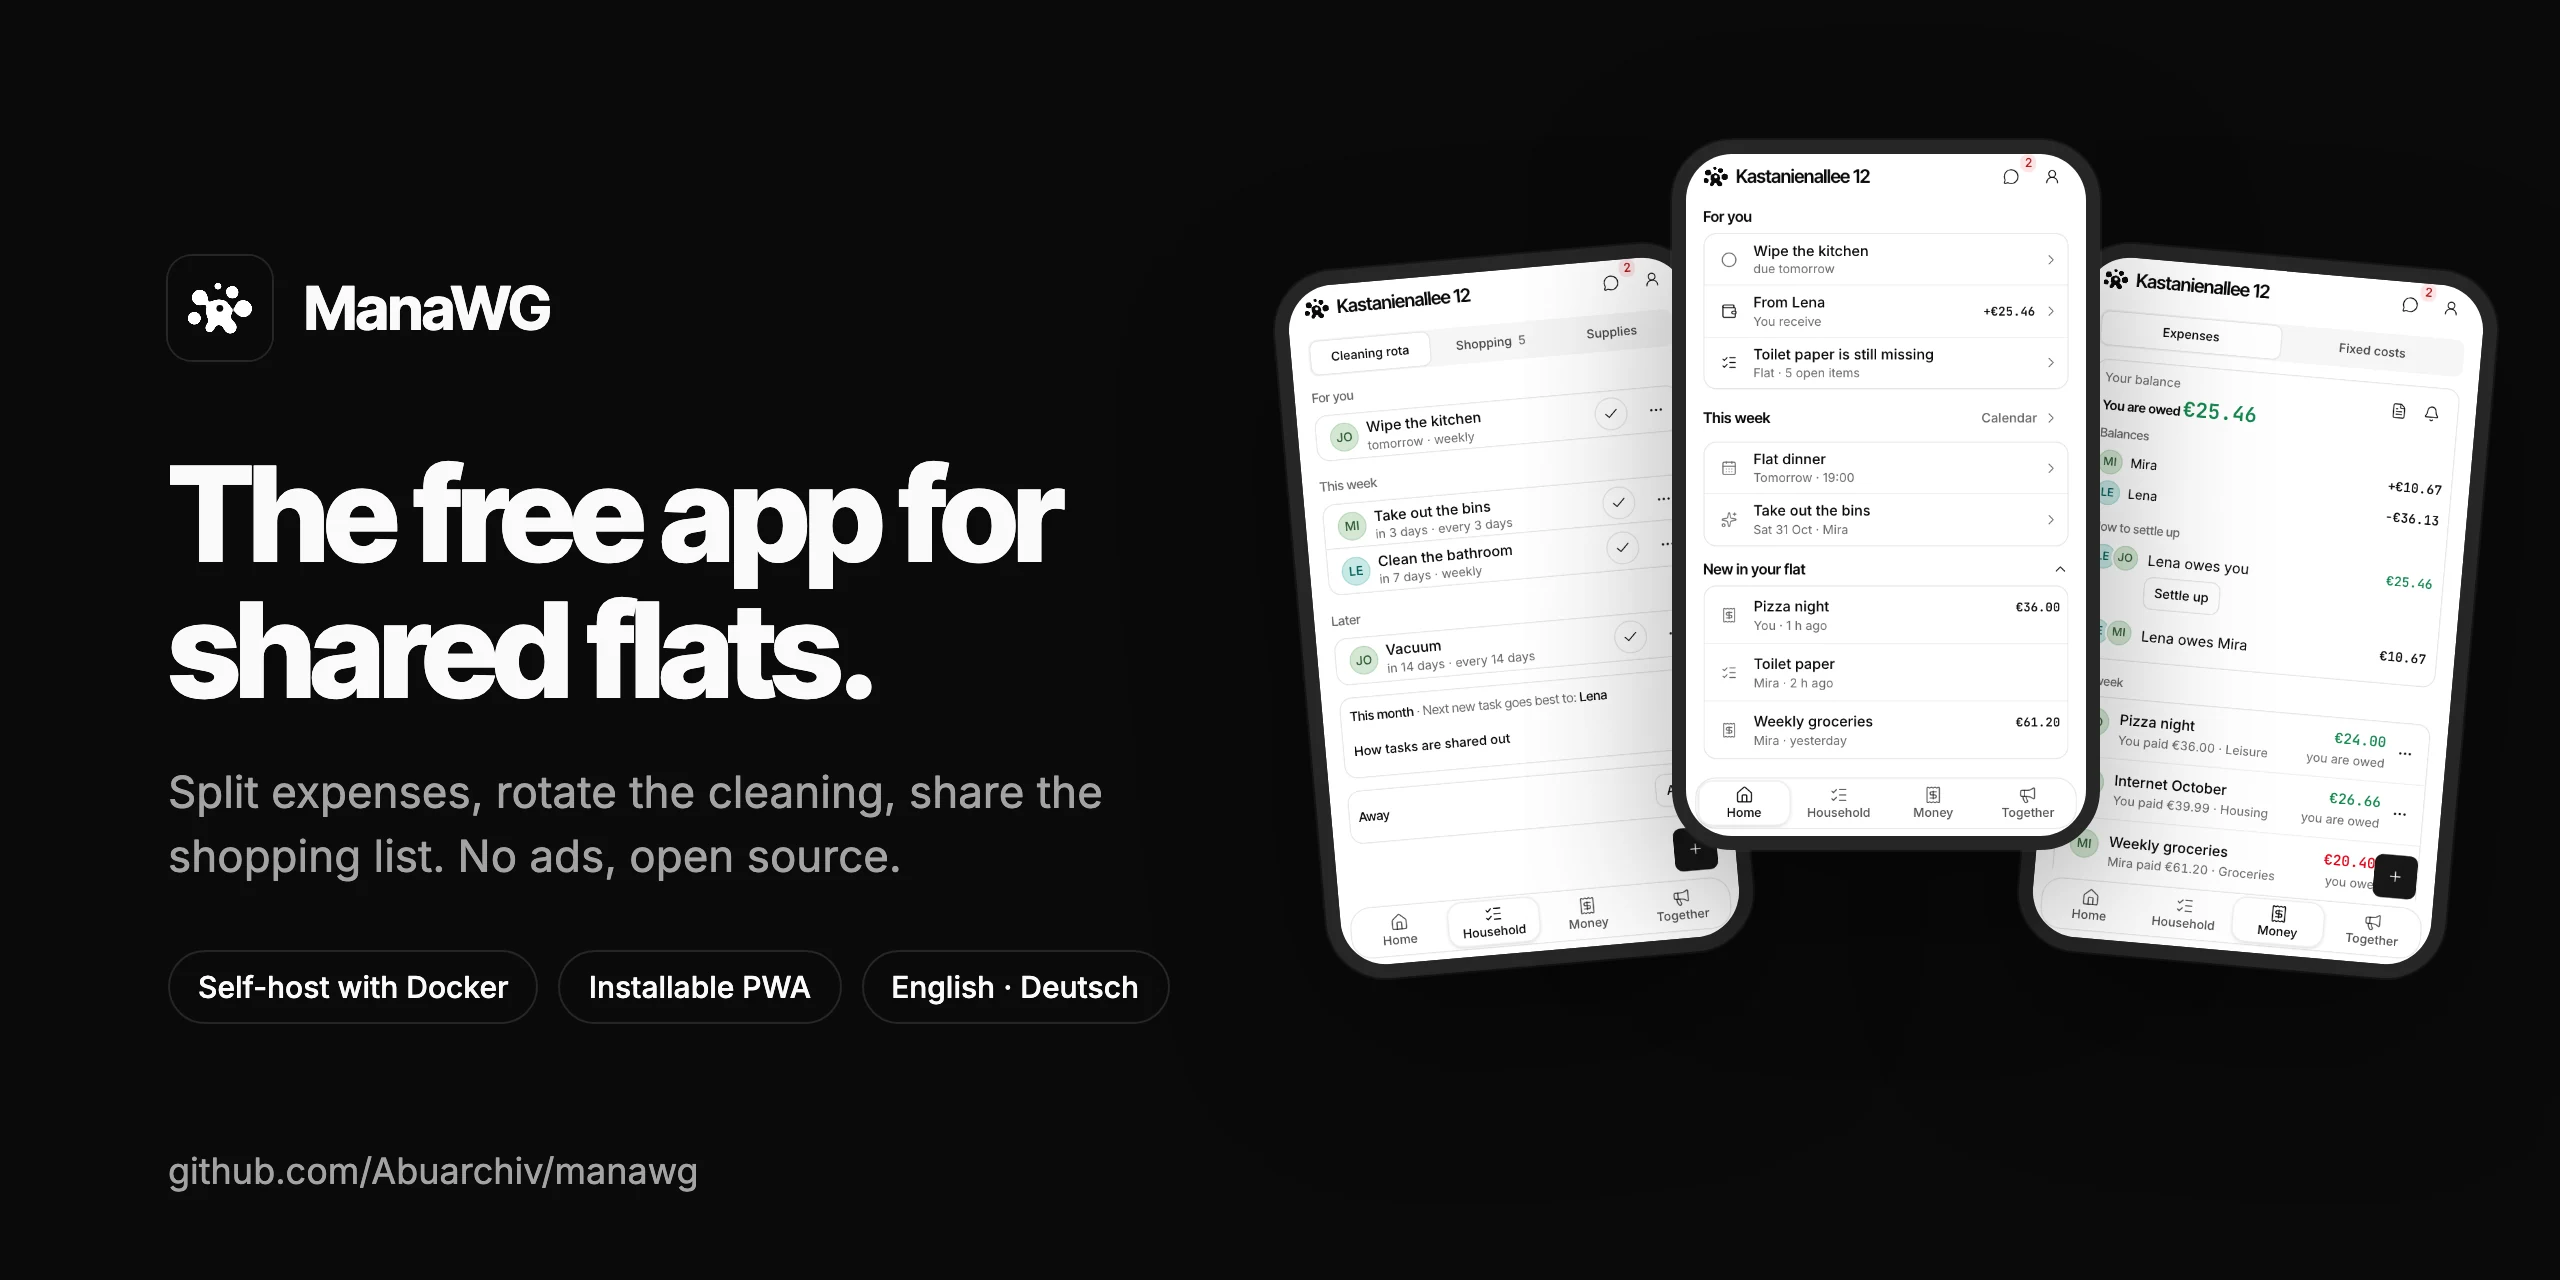
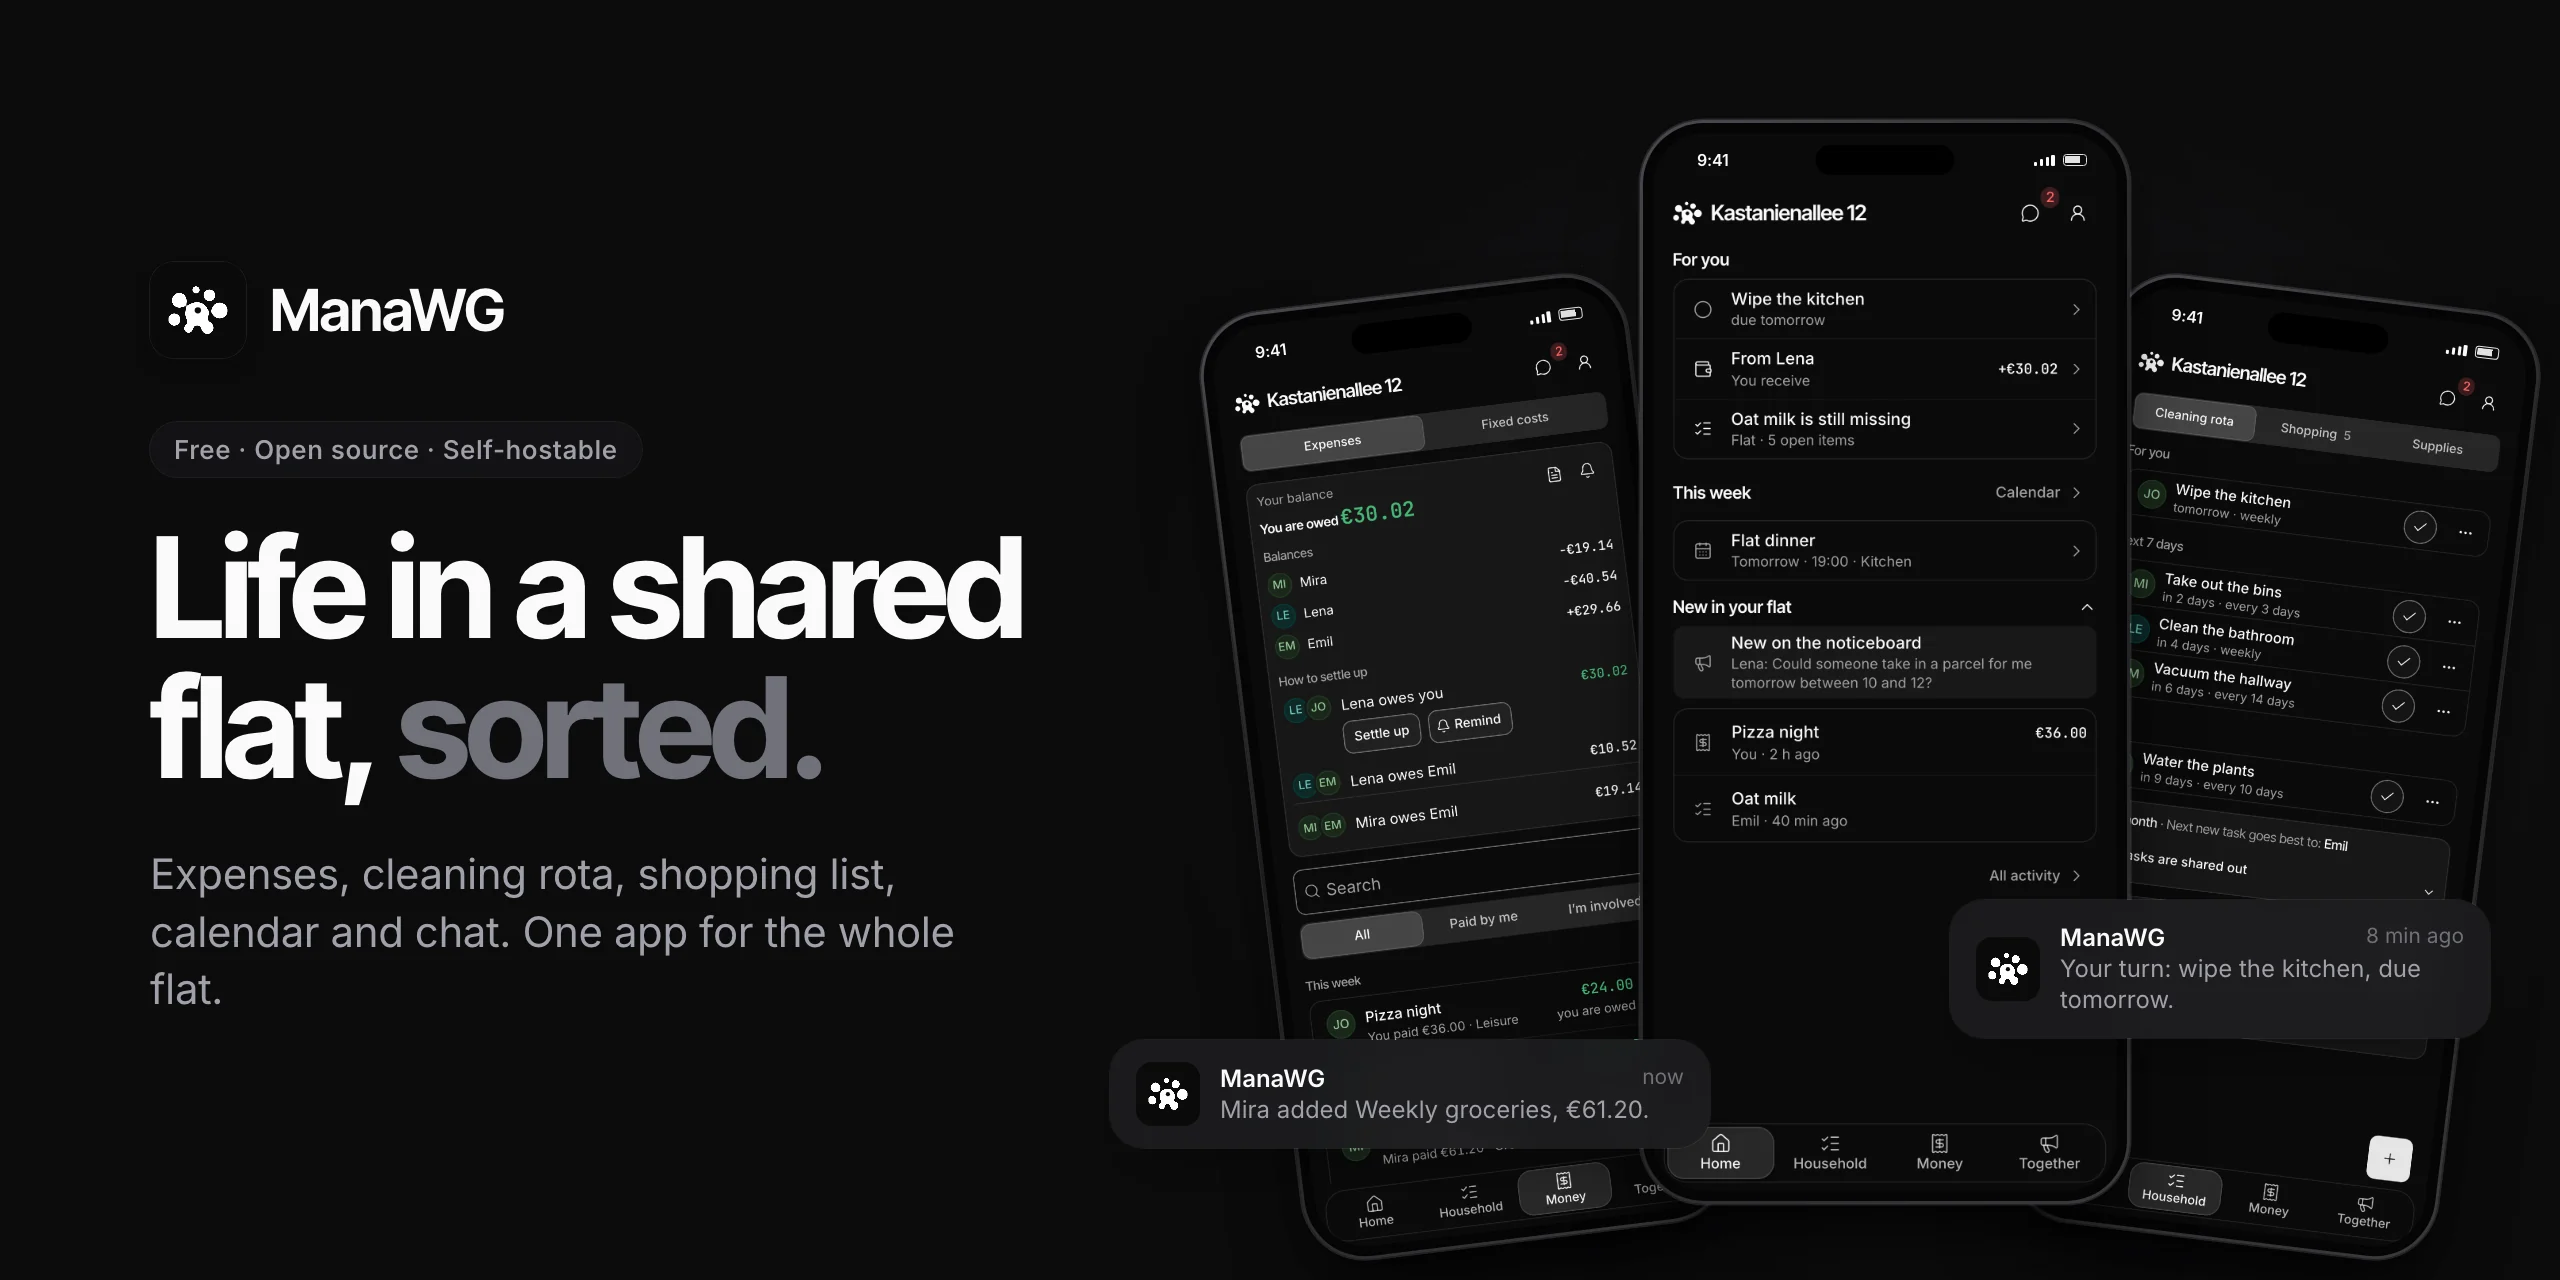
docs: redesign the README cover, social preview and feature gallery
Real phone frames with status bar, two notifications on the cover and one
feature gallery with six screens in light and dark instead of four plain
screenshots.

diff --git a/README.md b/README.md
@@ -2,7 +2,7 @@
   <a href="https://manawg.com/en">
     <picture>
       <source media="(prefers-color-scheme: dark)" srcset="docs/screenshots/cover-dark.webp">
-      <img src="docs/screenshots/cover-light.webp" alt="ManaWG: the free app for shared flats. Three phone screens show the home overview, the cleaning rota and the expenses.">
+      <img src="docs/screenshots/cover-light.webp" alt="ManaWG: life in a shared flat, sorted. Three phone screens show the expenses, the home overview and the cleaning rota.">
     </picture>
   </a>
 </p>
@@ -39,12 +39,10 @@ web app. *WG* is short for *Wohngemeinschaft*, German for shared flat.
 
 ## Features
 
-<p align="center">
-  <img src="docs/screenshots/home.png" width="24%" alt="Home: what is due for you, this week's dates and what is new in the flat">
-  <img src="docs/screenshots/expenses.png" width="24%" alt="Expenses: your balance, who owes whom and how to settle up">
-  <img src="docs/screenshots/chores.png" width="24%" alt="Cleaning rota: chores due for you, upcoming ones and who is away">
-  <img src="docs/screenshots/shopping.png" width="24%" alt="Shopping list with suggestions for the flat">
-</p>
+<picture>
+  <source media="(prefers-color-scheme: dark)" srcset="docs/screenshots/features-dark.webp">
+  <img src="docs/screenshots/features-light.webp" alt="Six phone screens: Home with what is due for you, Expenses with balances and settle-up suggestions, the cleaning rota, the shopping list with suggestions, the flat calendar and the chat.">
+</picture>
 
 | Area | What it does |
 | --- | --- |
